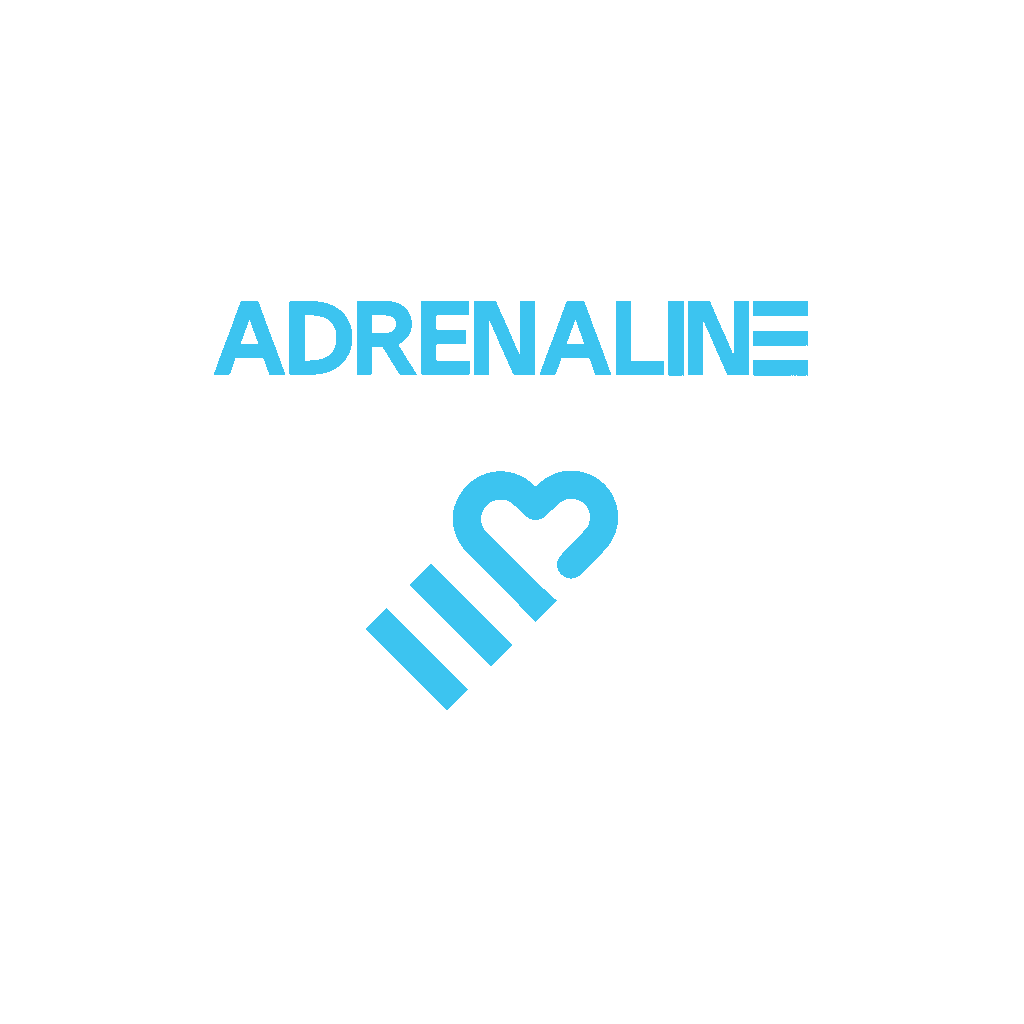
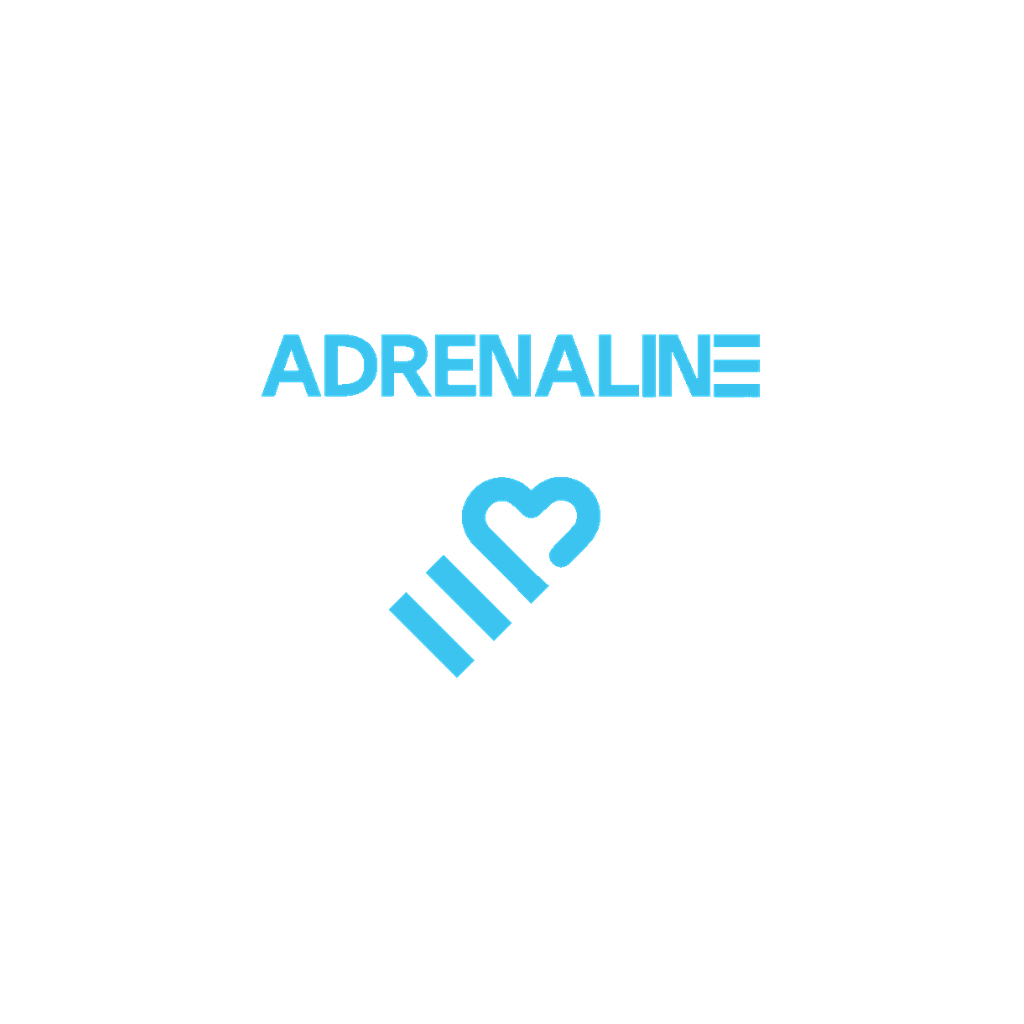
design(أيقونة): أيقونة أندرويد التكيّفية كانت تقصّ طرفي ADRENALINE في قناع الدائرة — الشعار صُغّر ليبقى داخلها بهامش
صفر بكسل خارج الدائرة بعد التعديل (كان 0.8%). المولّد script/make-mobile-assets.ts بنفس المعامل الجديد 0.52.
أيقونة متجر Google Play الجديدة 512×512 (الشعار وتحته القلب) في دليل/أصول-Google-Play بدل أيقونة القلب وحده.

Changed region(s): [[0.1875, 0.2812, 0.8125, 0.4062], [0.3438, 0.4375, 0.625, 0.6875]]

diff --git a/script/make-mobile-assets.ts b/script/make-mobile-assets.ts
@@ -52,7 +52,7 @@ async function main() {
   const white = { r: 255, g: 255, b: 255, alpha: 1 };
   const clear = { r: 0, g: 0, b: 0, alpha: 0 };
   fs.writeFileSync(path.join(OUT, "icon.png"), await stack(1024, CYAN, white));
-  fs.writeFileSync(path.join(OUT, "adaptive-icon.png"), await stack(1024, CYAN, clear, 0.62));
+  fs.writeFileSync(path.join(OUT, "adaptive-icon.png"), await stack(1024, CYAN, clear, 0.52) /* 0.62 كان يقصّ طرفي ADRENALINE في قناع الدائرة */);
   // السبلاش: اسم أبيض وقلب سماوي على شفاف — الخلفية الكحلية من app.json
   fs.writeFileSync(path.join(OUT, "splash-icon.png"), await stack(1024, WHITE, clear, 0.7));
   // الاسم وحده (بلا قلب) لرأس الشاشات — أبيض على الكحلي، وسماوي على الأبيض
